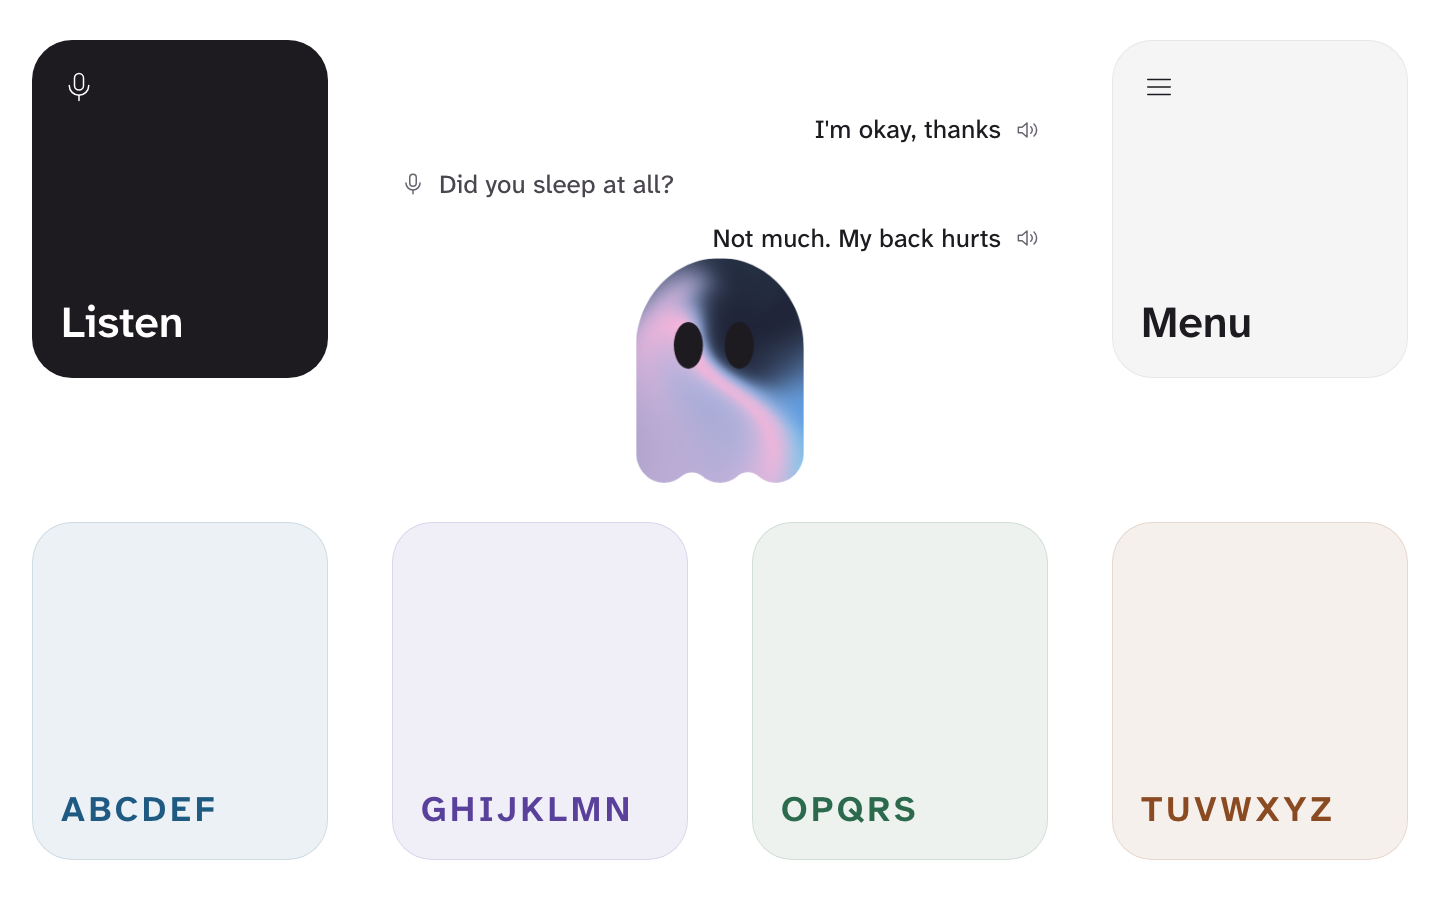
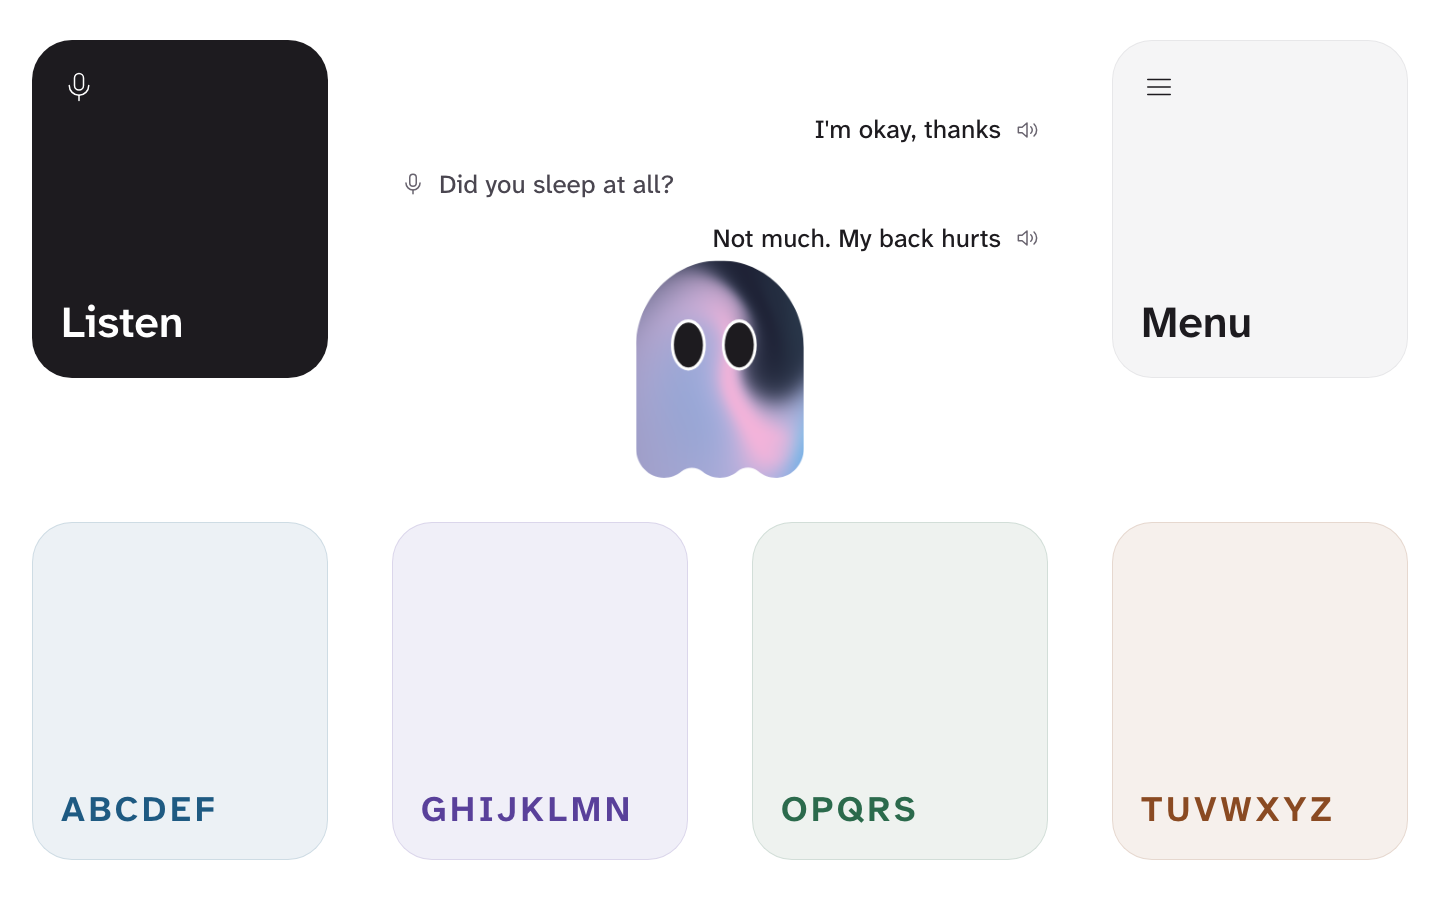
fix(s8): ring the ghost's eyes in white so they read on its dark gradient
The ink eyes vanished when the gradient's navy drifted behind them. Measured
over 20 s, ink eyes fell to 1.29:1 against the ghost and white eyes to 1.83:1,
so no single colour works. A white ring painted under the ink fill keeps the
eye's edge at 16:1 at every point in the drift.

Changed region(s): [[0.4375, 0.28, 0.5625, 0.56]]

diff --git a/prototypes/UI/v0/s8/src/components/ui/shader-svg.tsx b/prototypes/UI/v0/s8/src/components/ui/shader-svg.tsx
@@ -44,6 +44,9 @@ export function MeshGradientSVG() {
     }
   }, [mousePosition])
 
+  // The gradient runs from pastel pink to near-black, so no single eye colour reads on all of it
+  // (measured: ink eyes fall to 1.3:1, white to 1.8:1). A white ring under the ink fill keeps
+  // the eyes' edge at 16:1 wherever the gradient drifts.
   return (
     <motion.div
       className="relative w-full max-w-sm mx-auto p-8 rounded-lg"
@@ -75,6 +78,9 @@ export function MeshGradientSVG() {
           rx="20"
           ry="30"
           fill="currentColor"
+          stroke="#FFFFFF"
+          strokeWidth="8"
+          paintOrder="stroke"
           className="animate-blink"
           animate={{
             cx: 80 + eyeOffset.x,
@@ -86,6 +92,9 @@ export function MeshGradientSVG() {
           rx="20"
           ry="30"
           fill="currentColor"
+          stroke="#FFFFFF"
+          strokeWidth="8"
+          paintOrder="stroke"
           className="animate-blink"
           animate={{
             cx: 150 + eyeOffset.x,

diff --git a/prototypes/UI/v0/s8/DESIGN.md b/prototypes/UI/v0/s8/DESIGN.md
@@ -38,7 +38,7 @@ Style 8 plays the shared sound system ([../SOUND.md](../SOUND.md)) instead of st
 
 The owner rejected the Cloud ("I don't like the cloud in general") and a redrawn cumulus, and asked for their reference component exactly, colours included. It is in `src/components/ui/shader-svg.tsx`: a ghost silhouette clipped over a `@paper-design/shaders-react` mesh gradient (pastel pink, sky blue, medium blue, dark blue-grey, very dark blue), with two ink eyes that follow the pointer and blink every 3 s, bobbing every 2.8 s. `?demo` shows it alone.
 
-Two changes from the given file, both needed to run here. styled-jsx is Next.js only, so its rules sit in a plain `<style>`. It measured `document.querySelector("svg")`, which in Clarte is the Listen card's icon, so it measures its own svg through a ref.
+Three changes from the given file. Two were needed to run here. styled-jsx is Next.js only, so its rules sit in a plain `<style>`. It measured `document.querySelector("svg")`, which in Clarte is the Listen card's icon, so it measures its own svg through a ref. The third (owner, 2026-11-08: the eyes "blend in") gives each eye a white ring painted under its ink fill. The gradient runs from pastel pink to near-black, so no single eye colour reads on all of it. Over 20 s of drift the worst contrast against the ghost was 1.29:1 for ink eyes and 1.83:1 for white ones; the ring holds the eye's edge at 16:1 (`evidence/companion-eyes.png`).
 
 To take the component as given, style 8 now has shadcn's structure: the `@/` alias to `src`, `src/components/ui/`, and Tailwind 4 (theme and utilities only, no preflight, so style 8's own styles are unchanged).
 
